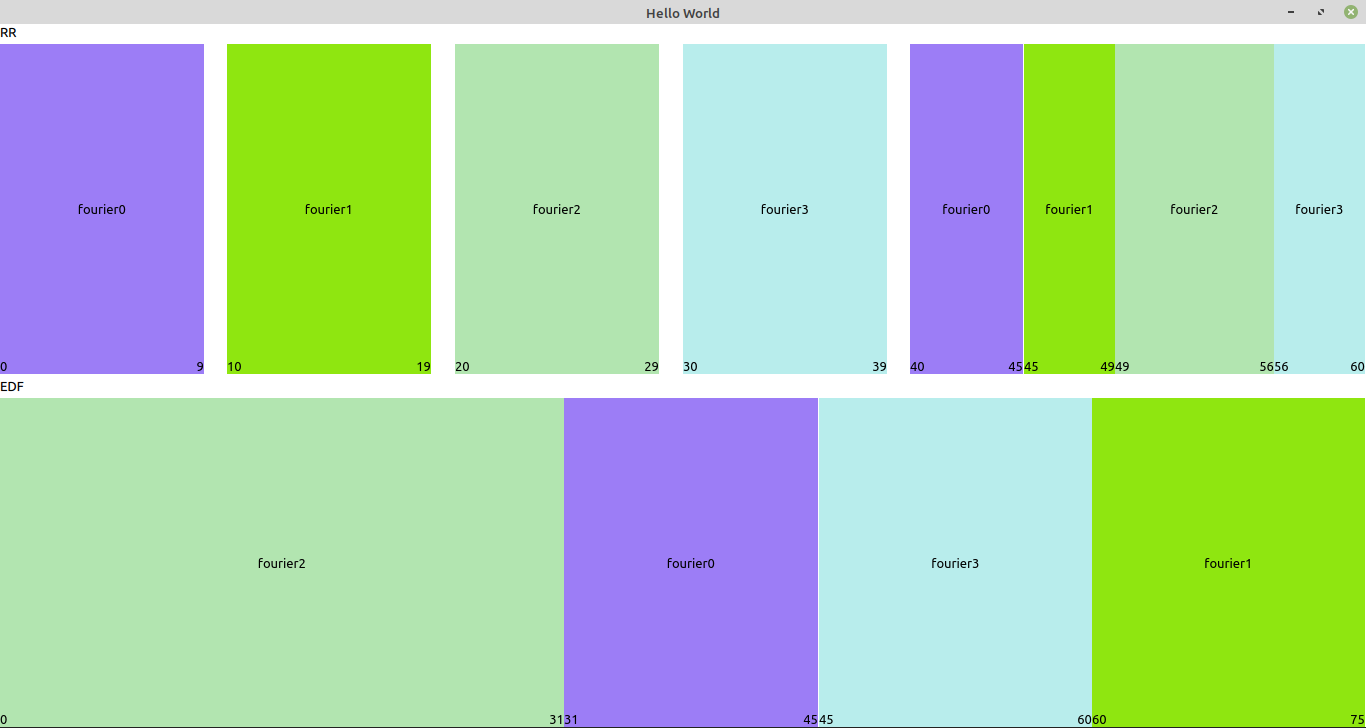
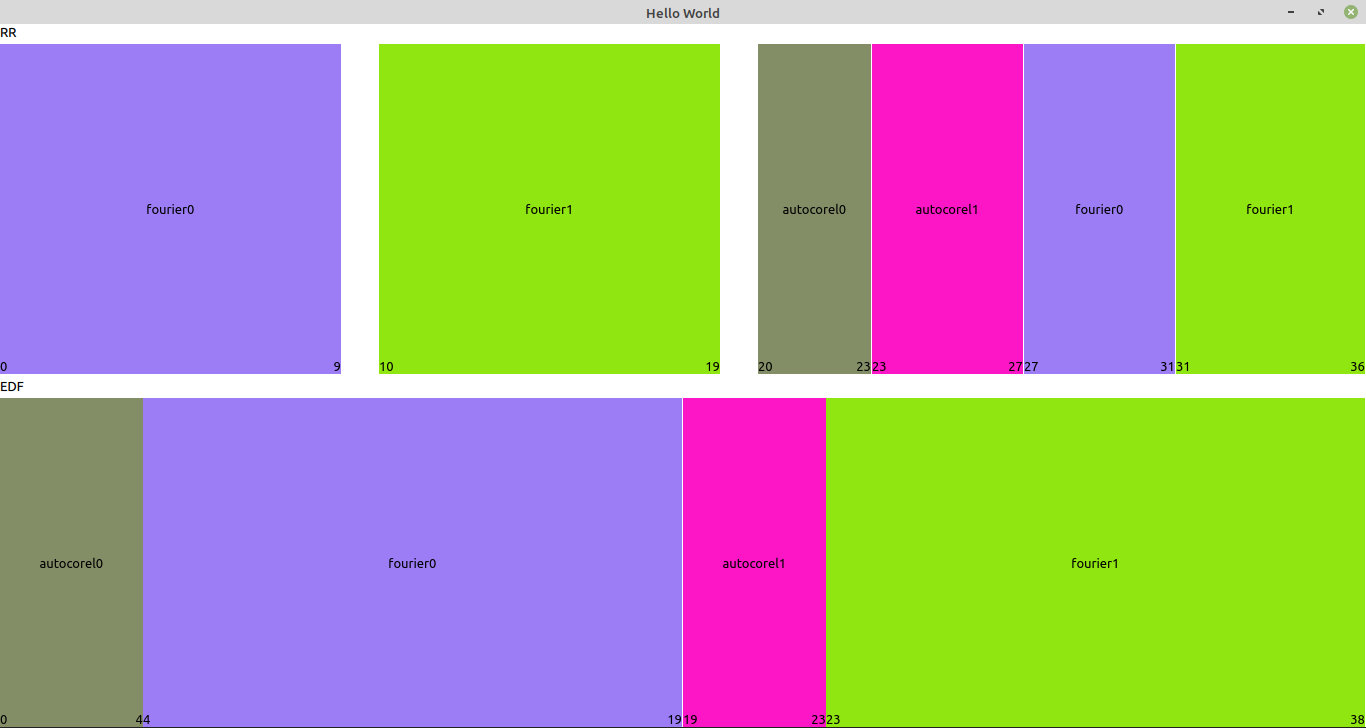
+

diff --git a/src/main.cpp b/src/main.cpp
@@ -8,6 +8,7 @@
 #include <src/scheduler/roundrobinscheduler.h>
 #include <src/scheduler/time.h>
 
+#include <src/tasks/autocorrelationtask.h>
 #include <src/tasks/fouriertask.h>
 #include <QQmlContext>
 
@@ -39,13 +40,13 @@ int main(int argc, char *argv[])
     {
         roundRobinExecutor.addTask(new FourierTask("fourier0"), Time::nowMillis() + 3000);
         roundRobinExecutor.addTask(new FourierTask("fourier1"), Time::nowMillis() + 2000);
-        roundRobinExecutor.addTask(new FourierTask("fourier2"), Time::nowMillis() + 3000);
-        roundRobinExecutor.addTask(new FourierTask("fourier3"), Time::nowMillis() + 2000);
+        roundRobinExecutor.addTask(new AutoCorrelationTask("autocorel0"), Time::nowMillis() + 3000);
+        roundRobinExecutor.addTask(new AutoCorrelationTask("autocorel1"), Time::nowMillis() + 2000);
     } {
         erliestDeadlineFirstExecutor.addTask(new FourierTask("fourier0"), Time::nowMillis() + 300);
         erliestDeadlineFirstExecutor.addTask(new FourierTask("fourier1"), Time::nowMillis() + 1000);
-        erliestDeadlineFirstExecutor.addTask(new FourierTask("fourier2"), Time::nowMillis() + 200);
-        erliestDeadlineFirstExecutor.addTask(new FourierTask("fourier3"), Time::nowMillis() + 500);
+        erliestDeadlineFirstExecutor.addTask(new AutoCorrelationTask("autocorel0"), Time::nowMillis() + 200);
+        erliestDeadlineFirstExecutor.addTask(new AutoCorrelationTask("autocorel1"), Time::nowMillis() + 500);
     }
 
     printResults(roundRobinExecutor.exec(roundRobinScheduler));

diff --git a/src/tasks/autocorrelationtask.cpp b/src/tasks/autocorrelationtask.cpp
@@ -17,5 +17,5 @@ std::optional<QVariant> AutoCorrelationTask::proceed() {
 
 void AutoCorrelationTask::reset() {
     SignalGenerator signalGenerator(10, 900);
-    it = Correlation::iterator(signalGenerator.generateVec(Range::gen<double>(0, 256)));
+    it = Correlation::iterator(signalGenerator.generateVec(Range::gen<double>(0, 512)));
 }
